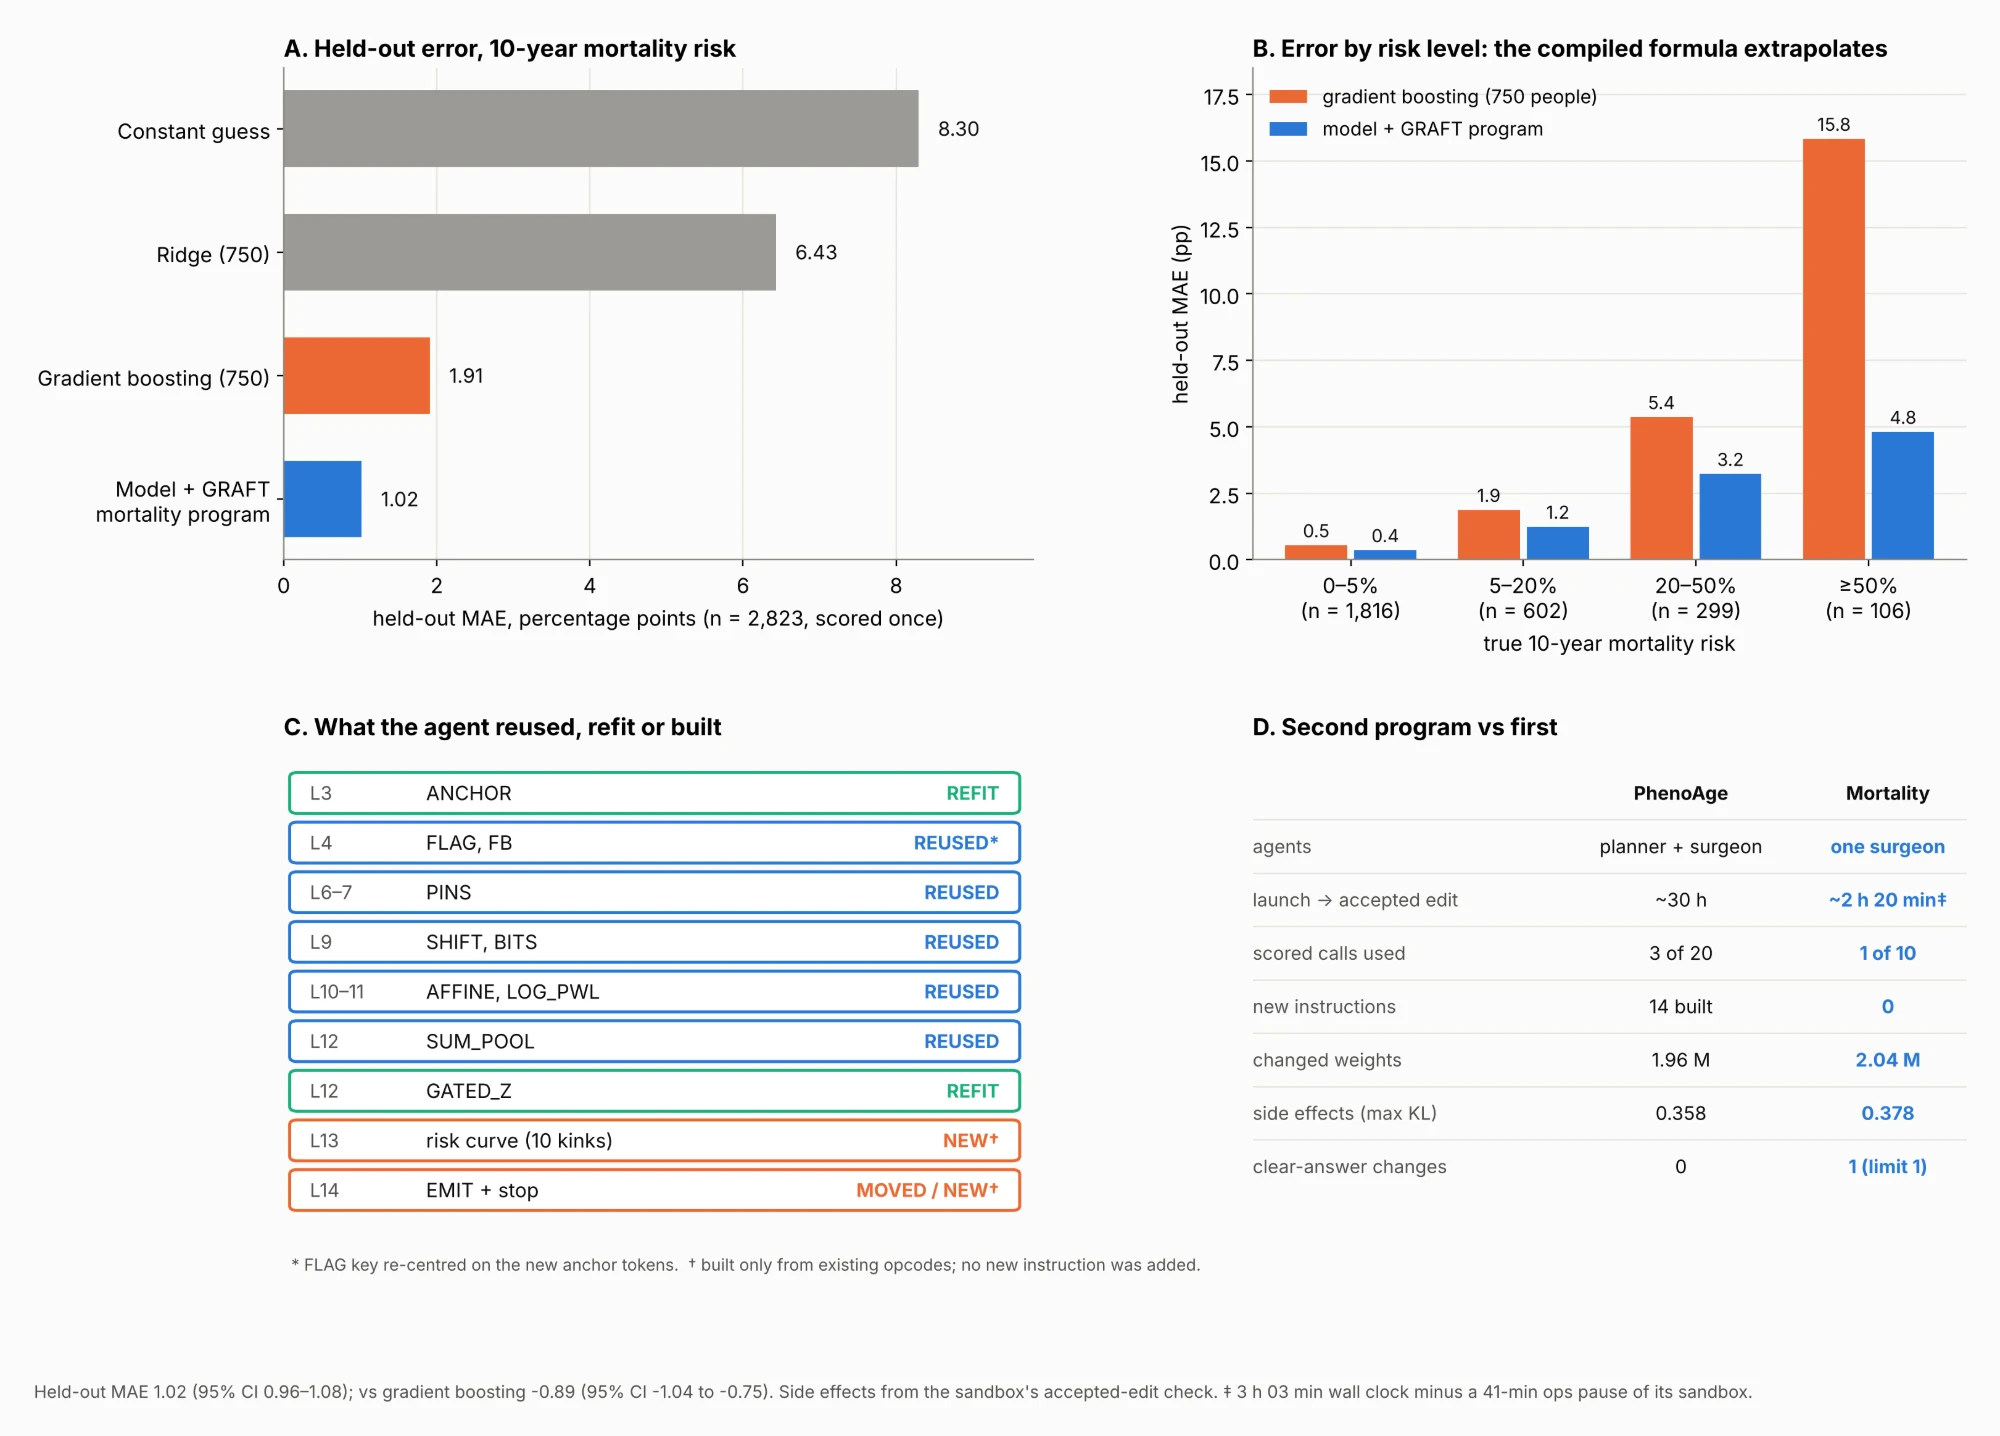
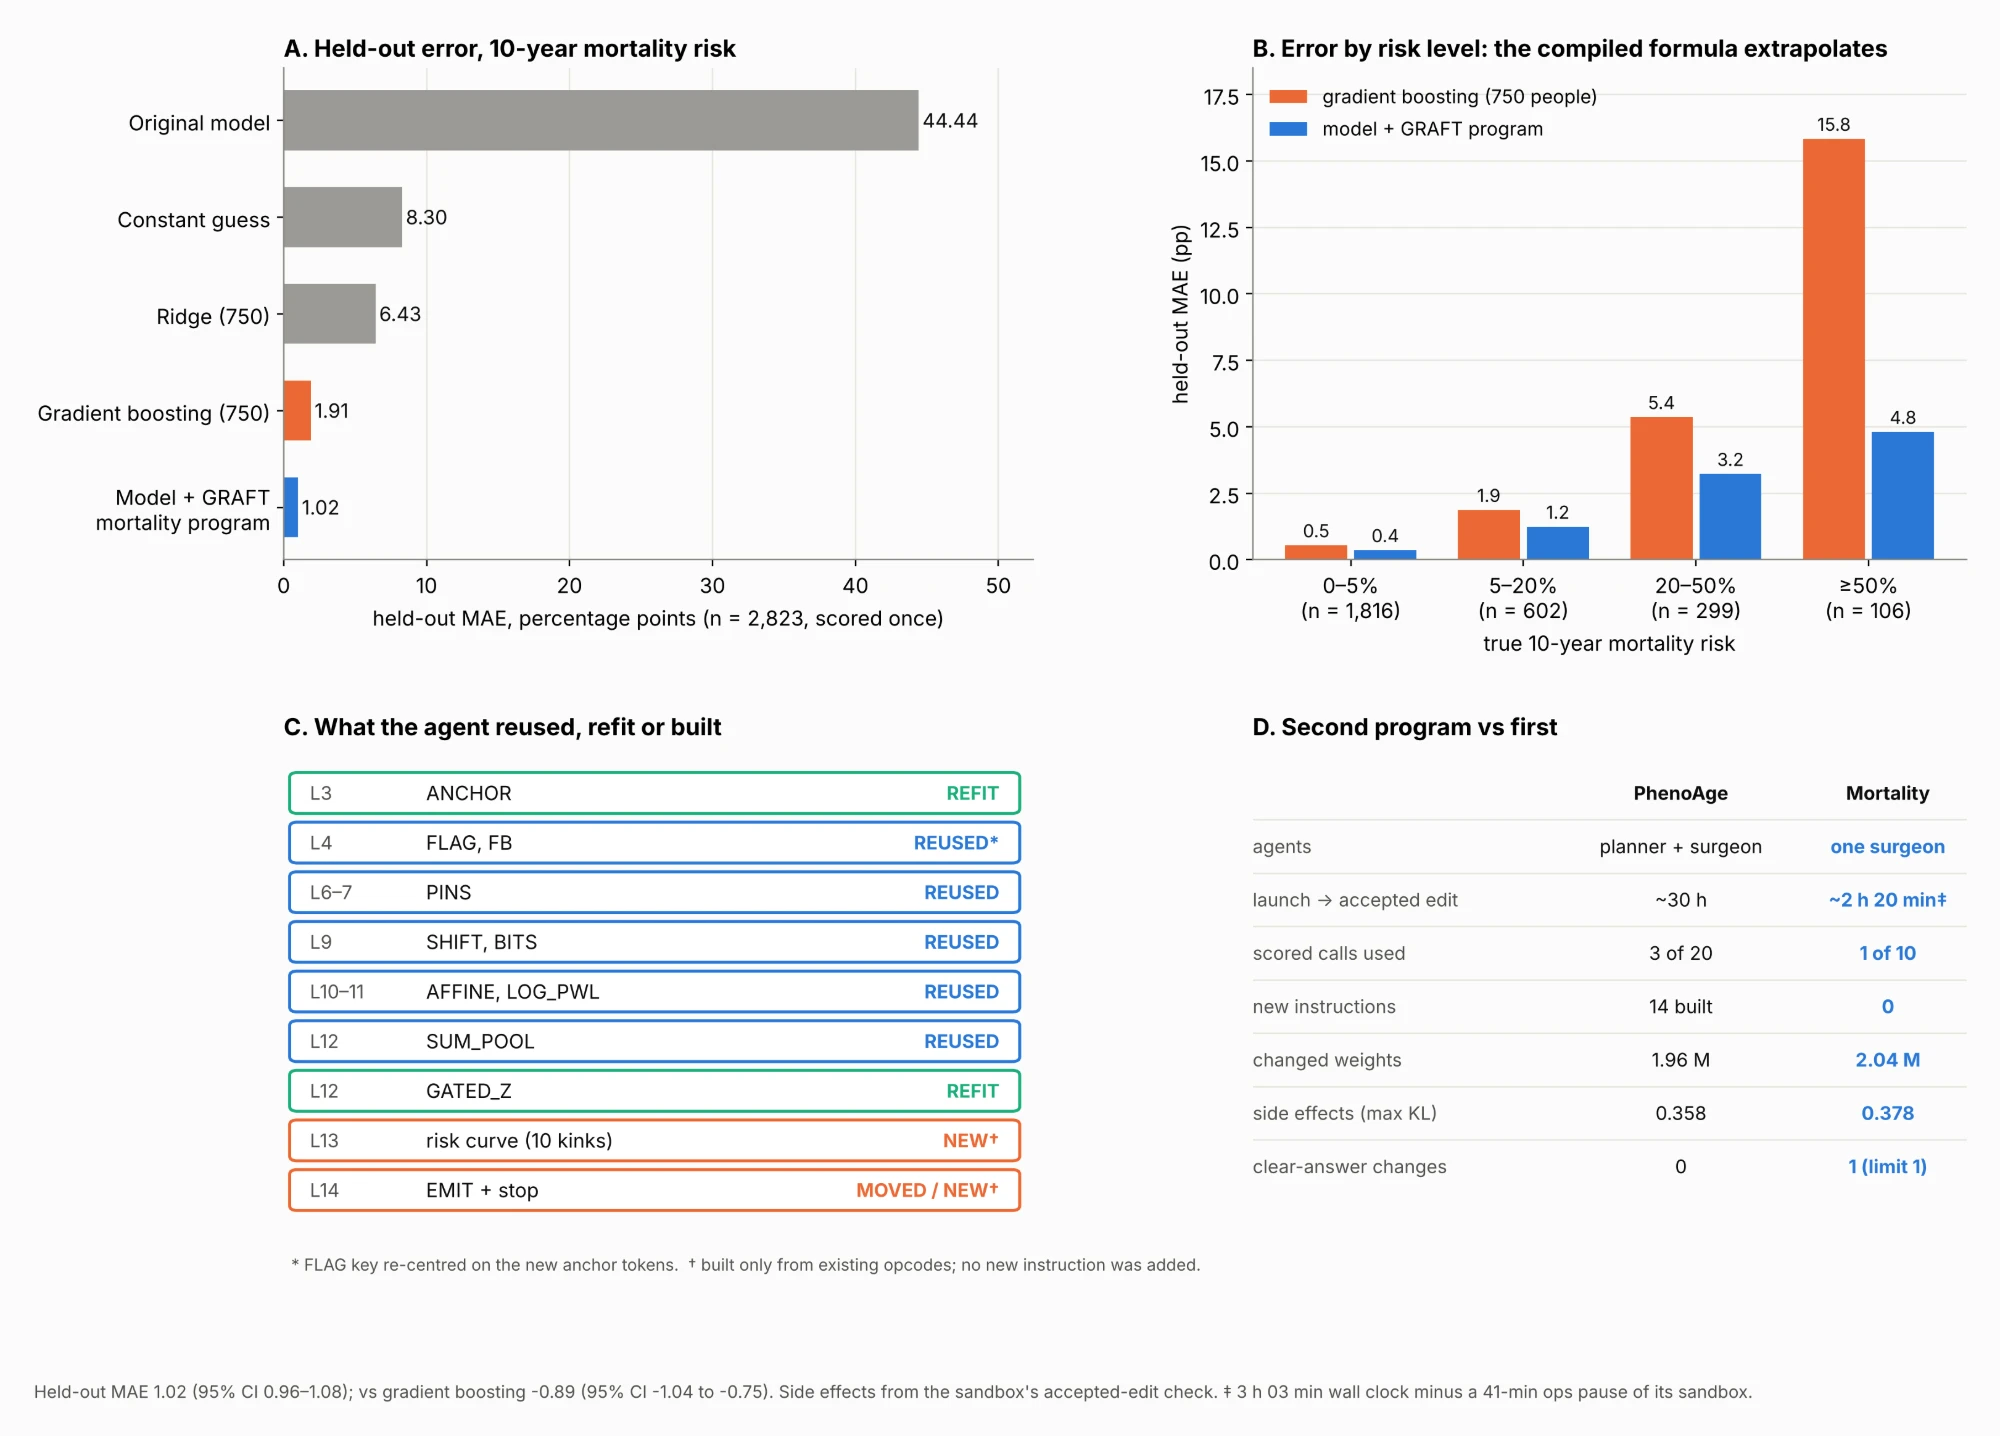
Part 3: add held-out result for the original model (MAE 44.44); update Figure 2
Claude-Session: https://claude.ai/code/session_0189EHowxSYNumpzbTHLKZ9i

diff --git a/src/content/blog/graft-common-language-for-programming-model-weights.md b/src/content/blog/graft-common-language-for-programming-model-weights.md
@@ -12,7 +12,7 @@ _In Part 2, two Claude Opus agents built a set of reusable weight-space surgerie
 
 ## TL;DR
 
-- **GRAFT transfers.** A fresh agent compiled a second program, 10-year mortality risk, by reusing the library: eight PhenoAge instructions unchanged, three refit, and a new risk curve built from existing opcodes. It needed no new instructions and one scored call, and was done in under 2½ hours. Held-out error is **1.02 percentage points**, against 8.30 for a constant guess, 6.43 for ridge regression and 1.91 for gradient boosting trained on 750 people. It passes the same side-effect rule.
+- **GRAFT transfers.** A fresh agent compiled a second program, 10-year mortality risk, by reusing the library: eight PhenoAge instructions unchanged, three refit, and a new risk curve built from existing opcodes. It needed no new instructions and one scored call, and was done in under 2½ hours. Held-out error is **1.02 percentage points**, against 44.4 for the original model, 8.30 for a constant guess, 6.43 for ridge regression and 1.91 for gradient boosting trained on 750 people. It passes the same side-effect rule.
 - **A graft is a weight edit that declares six things:** what model it targets, exactly which weights it touches, what switches it on, what it computes, a measured contract, and a side-effect certificate. Drop any one and it stops being safe to add to someone else's model.
 - **The smallest valid graft is two MLP neurons:** one gated `step` pair, 6,144 weights in this model. The smallest graft that changes visible behaviour needs three instructions: switch on, compute, write a token.
 - **A universal language is possible; universal weights are not.** The interface (the six fields, file format and certificate) can be model-agnostic. The opcodes are portable within one family of architectures. The actual numbers have to be fitted to each model. That is the same split as source code and binaries, so GRAFT has both: a `.graft` source file is _lowered_ against a specific model into a `.gdelta` (the weights) and a `.gcert` (the test report).
@@ -302,6 +302,7 @@ _Figure 2. A: held-out error on 2,823 people, scored once. B: error by true risk
 
 | Held-out (n = 2,823), scored once                   | MAE (percentage points) | Edited minus comparator (95% CI) |
 | --------------------------------------------------- | ----------------------- | -------------------------------- |
+| Original model                                      | 44.44                   | −43.42 (−44.39 to −42.52)        |
 | Constant guess                                      | 8.30                    | −7.28 (−7.78 to −6.78)           |
 | Ridge regression (750 people)                       | 6.43                    | −5.41 (−5.63 to −5.20)           |
 | Gradient boosting (750 people, given parsed values) | 1.91                    | **−0.89** (−1.04 to −0.75)       |
@@ -310,7 +311,7 @@ _Figure 2. A: held-out error on 2,823 people, scored once. B: error by true risk
 ![Answers vs truth](/figures/t3_answers_vs_truth.png)
 _Figure 3. Each held-out person's true risk against the answer the edited model wrote (left) and gradient boosting's prediction (right)._
 
-The original model doesn't know the formula: its dev error is 45.2 points. A held-out run of the original model is in progress to confirm this formally.
+The original model doesn't know the formula. On held-out its error is 44.4 points (the edit is better by 43.4, 95% CI 42.5–44.4), because it answers "70" or "72" for almost half of all people, whatever their profile.
 
 - **Dev and held-out agree.** Dev MAE was 1.06 on 200 people, and the agent had predicted 0.8–1.2 before the call. Held-out came in at 1.02.
 - **Every answer is well-formed.** All 2,823 answers are exactly two digits ("08", "23") followed by a stop; none is unparsable or runs on. The median error is 0.4 points, and 77% of people are within 1 point.
